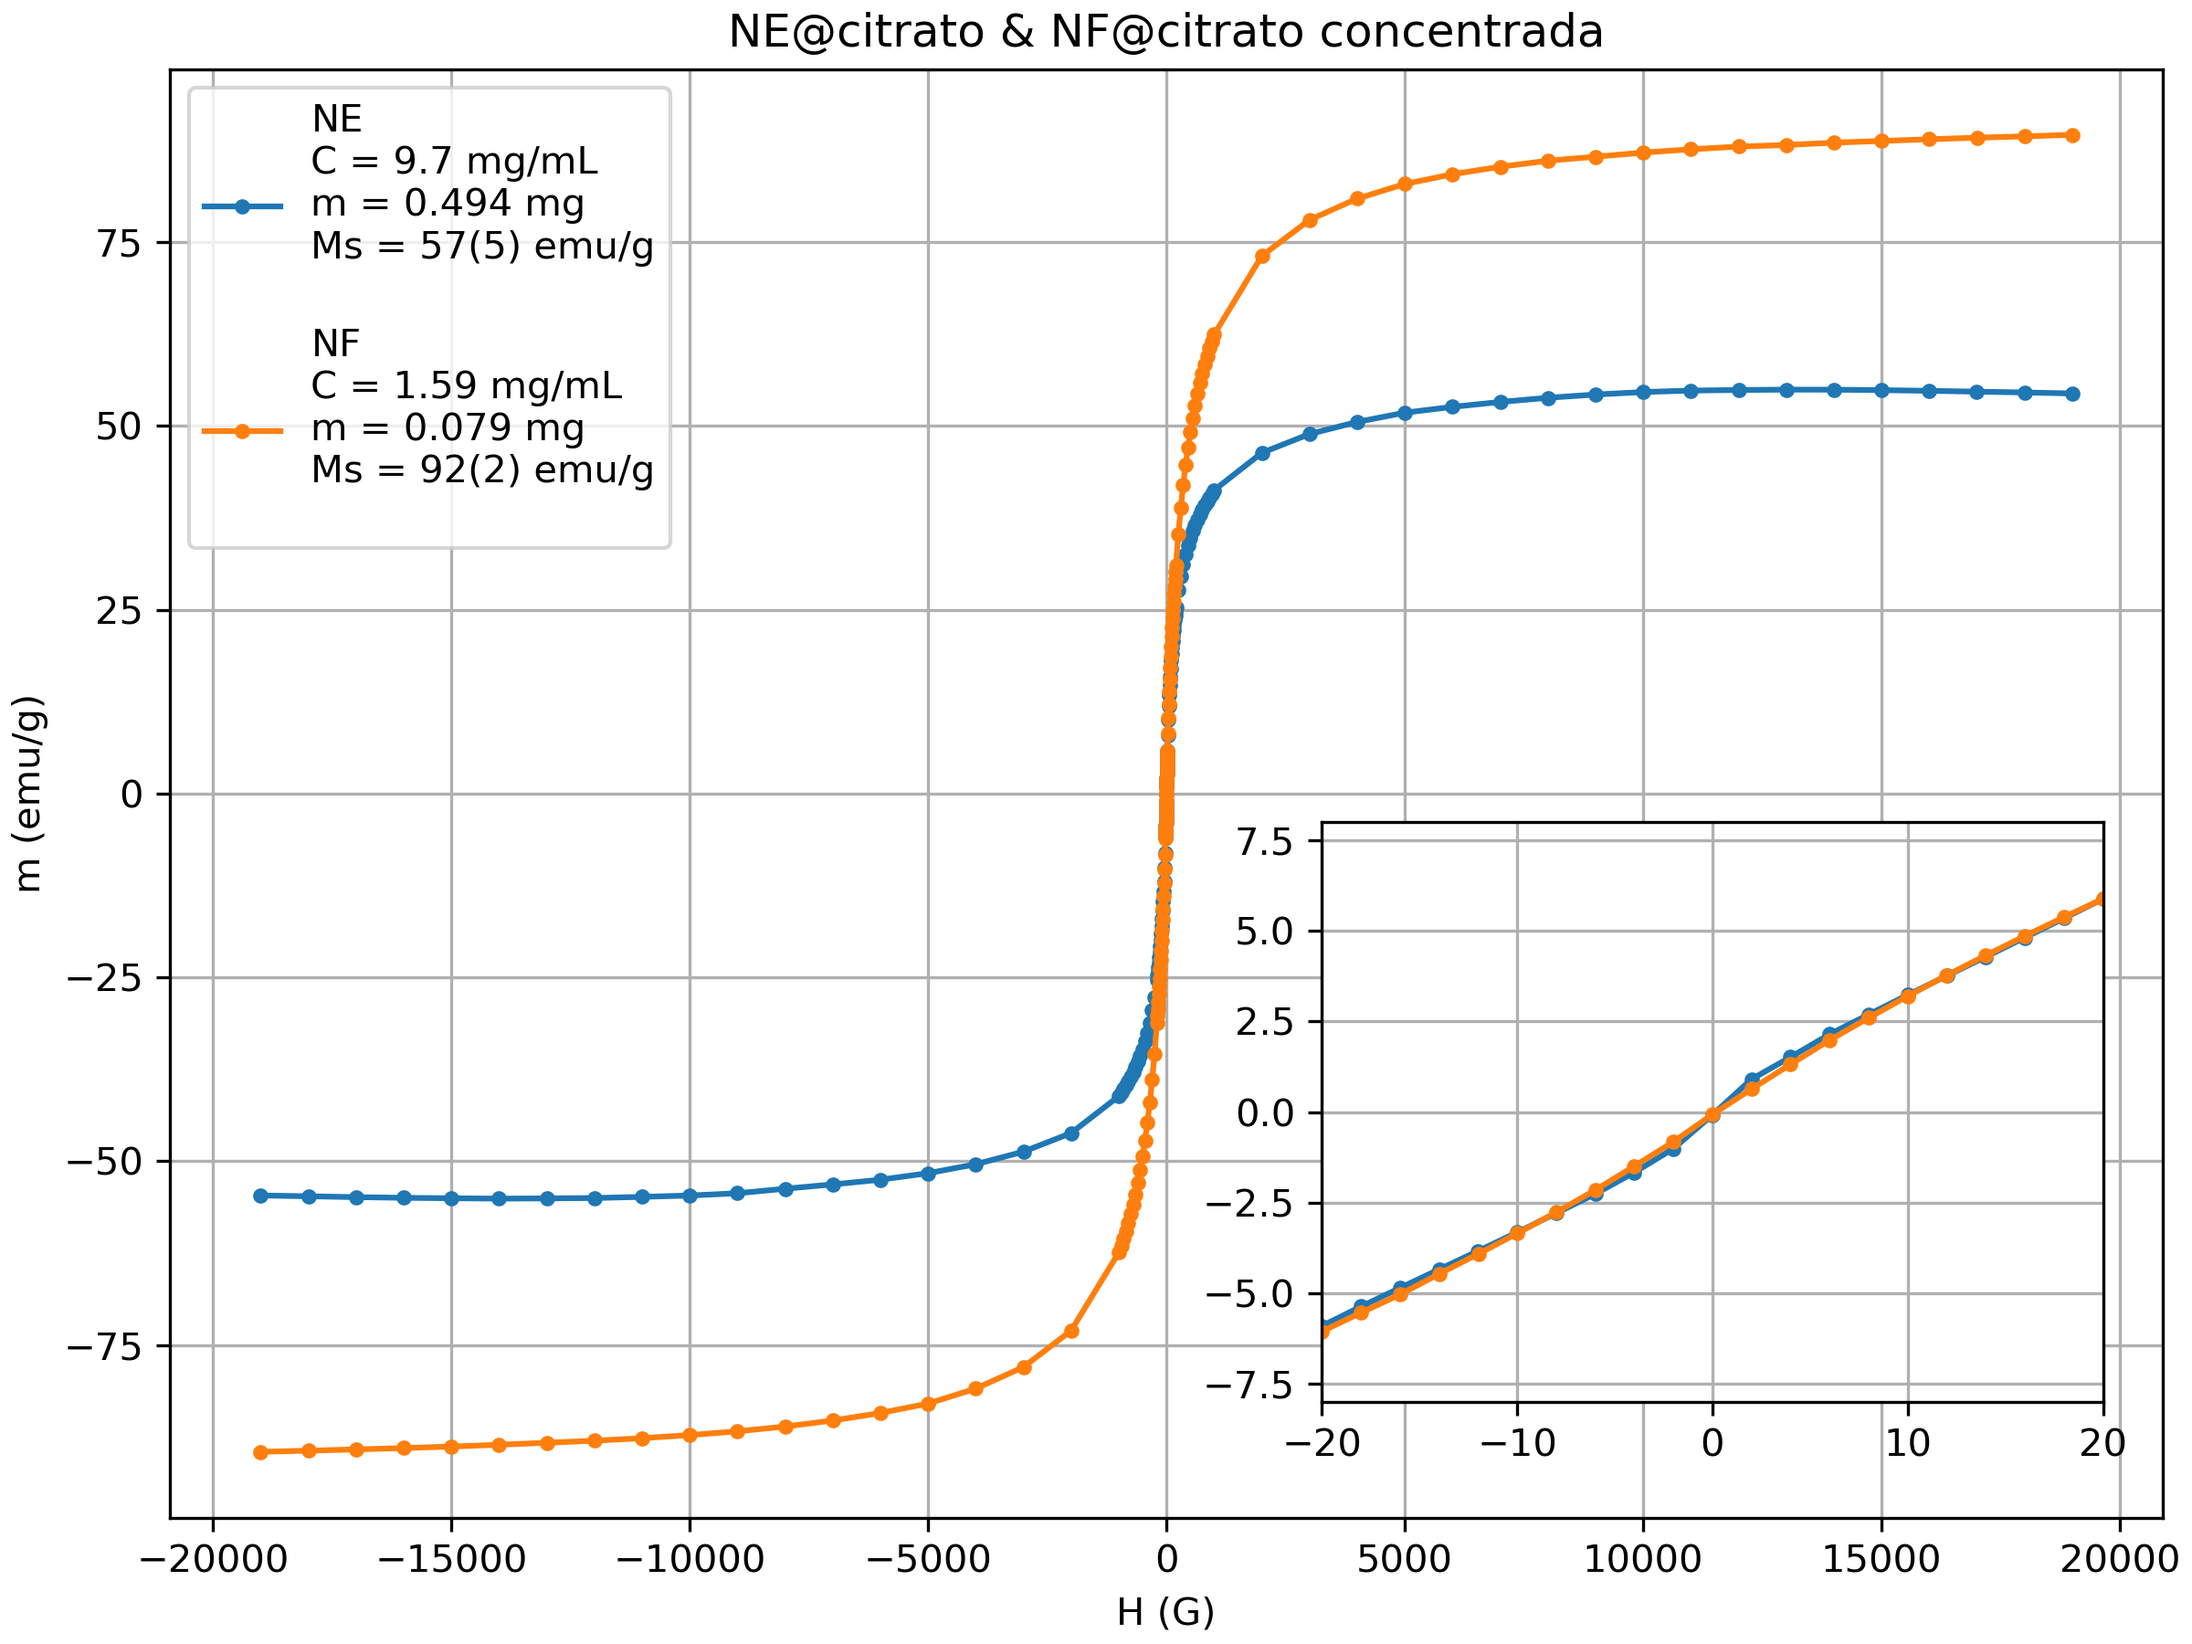
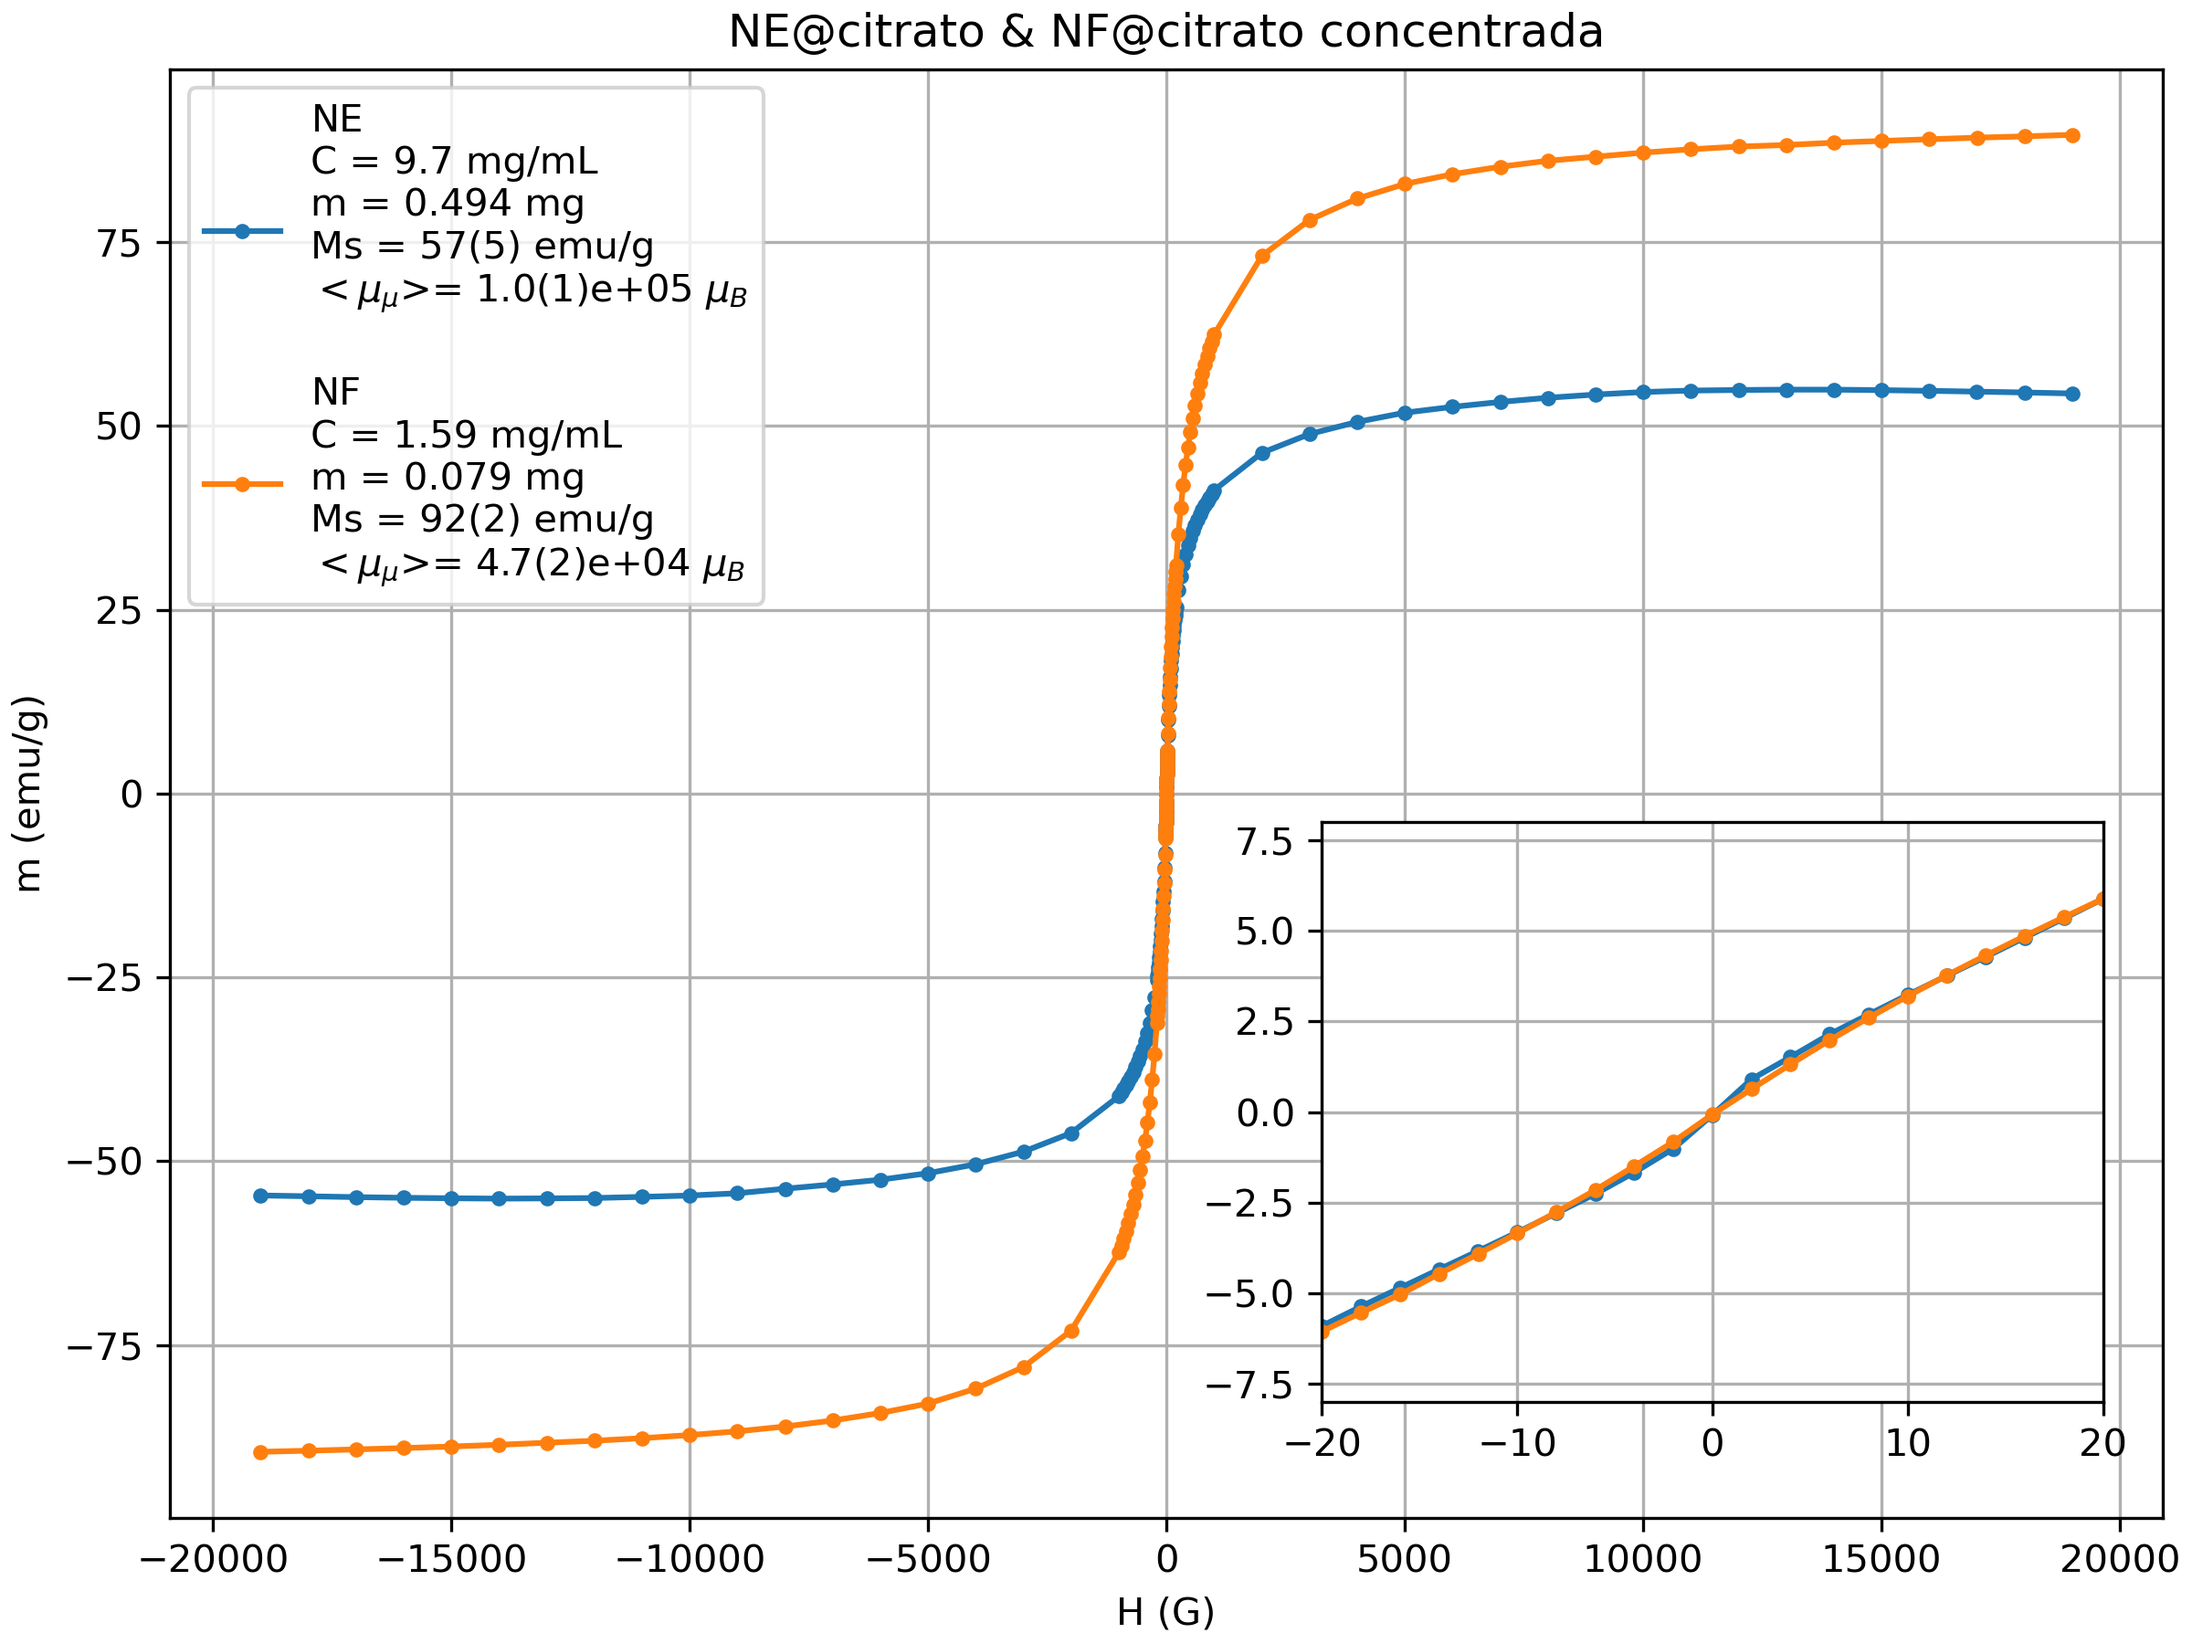
agregados los mu_mu en plots

diff --git a/VSM.py b/VSM.py
@@ -325,7 +325,7 @@ fig, ax = plt.subplots( figsize=(8, 6), constrained_layout=True)
 ax.plot(H_NE, m_NE_norm,'o-', c='C0',alpha=0.4,label=f'Datos originales\n')
 
 ax.plot(resultados_fit['NE']['H_fit'], resultados_fit['NE']['m_fit'],
-        '.-', c='C1',label=f'NE fit\nC = {conc_NE} mg/mL\nm = {masa_NE*1000:.3f} mg\nMs = {resultados_fit["NE"]["Ms"]:.1uS} emu/g\n')
+        '.-', c='C1',label=f'NE fit\nC = {conc_NE} mg/mL\nm = {masa_NE*1000:.3f} mg\nMs = {resultados_fit["NE"]["Ms"]:.1uS} emu/g\n$<\mu_\mu$>= {resultados_fit["NE"]["fit"].derived_parameters()["<mu>_mu"]:.1uS} $\mu_B$')
 
 
 ax.set_ylabel('m (emu/g)')
@@ -353,12 +353,12 @@ axins.grid()
 
 plt.savefig('NE_fit.png',dpi=300)
 plt.show()
-
+#%%
 fig2, ax = plt.subplots( figsize=(8, 6), constrained_layout=True)
 
 ax.plot(H_NF, m_NF_conc_norm,'o-', c='C0',alpha=0.4,label=f'Datos originales\n')
 ax.plot(resultados_fit['NF']['H_fit'], resultados_fit['NF']['m_fit'],
-        '.-', c='C1',label=f'NF fit\nC = {conc_NF} mg/mL\nm = {masa_NF*1000:.3f} mg\nMs = {resultados_fit["NF"]["Ms"]:.1uS} emu/g\n')
+        '.-', c='C1',label=f'NF fit\nC = {conc_NF} mg/mL\nm = {masa_NF*1000:.3f} mg\nMs = {resultados_fit["NF"]["Ms"]:.1uS} emu/g\n$<\mu_\mu$>= {resultados_fit["NF"]["fit"].derived_parameters()["<mu>_mu"]:.1uS} $\mu_B$')
 
 
 ax.set_ylabel('m (emu/g)')
@@ -390,10 +390,10 @@ plt.show()
 fig, ax = plt.subplots( figsize=(8, 6), constrained_layout=True)
 
 ax.plot(resultados_fit['NE']['H_fit'], resultados_fit['NE']['m_fit_sin_lineal'],
-        '.-', label=f'NE\nC = {conc_NE} mg/mL\nm = {masa_NE*1000:.3f} mg\nMs = {resultados_fit["NE"]["Ms"]:.1uS} emu/g\n')
+        '.-', label=f'NE\nC = {conc_NE} mg/mL\nm = {masa_NE*1000:.3f} mg\nMs = {resultados_fit["NE"]["Ms"]:.1uS} emu/g\n$<\mu_\mu$>= {resultados_fit["NE"]["fit"].derived_parameters()["<mu>_mu"]:.1uS} $\mu_B$\n')
 
 ax.plot(resultados_fit['NF']['H_fit'], resultados_fit['NF']['m_fit_sin_lineal'],
-        '.-', label=f'NF\nC = {conc_NF} mg/mL\nm = {masa_NF*1000:.3f} mg\nMs = {resultados_fit["NF"]["Ms"]:.1uS} emu/g\n')
+        '.-', label=f'NF\nC = {conc_NF} mg/mL\nm = {masa_NF*1000:.3f} mg\nMs = {resultados_fit["NF"]["Ms"]:.1uS} emu/g\n$<\mu_\mu$>= {resultados_fit["NF"]["fit"].derived_parameters()["<mu>_mu"]:.1uS} $\mu_B$')
 
 ax.set_ylabel('m (emu/g)')
 ax.set_xlabel('H (G)')
